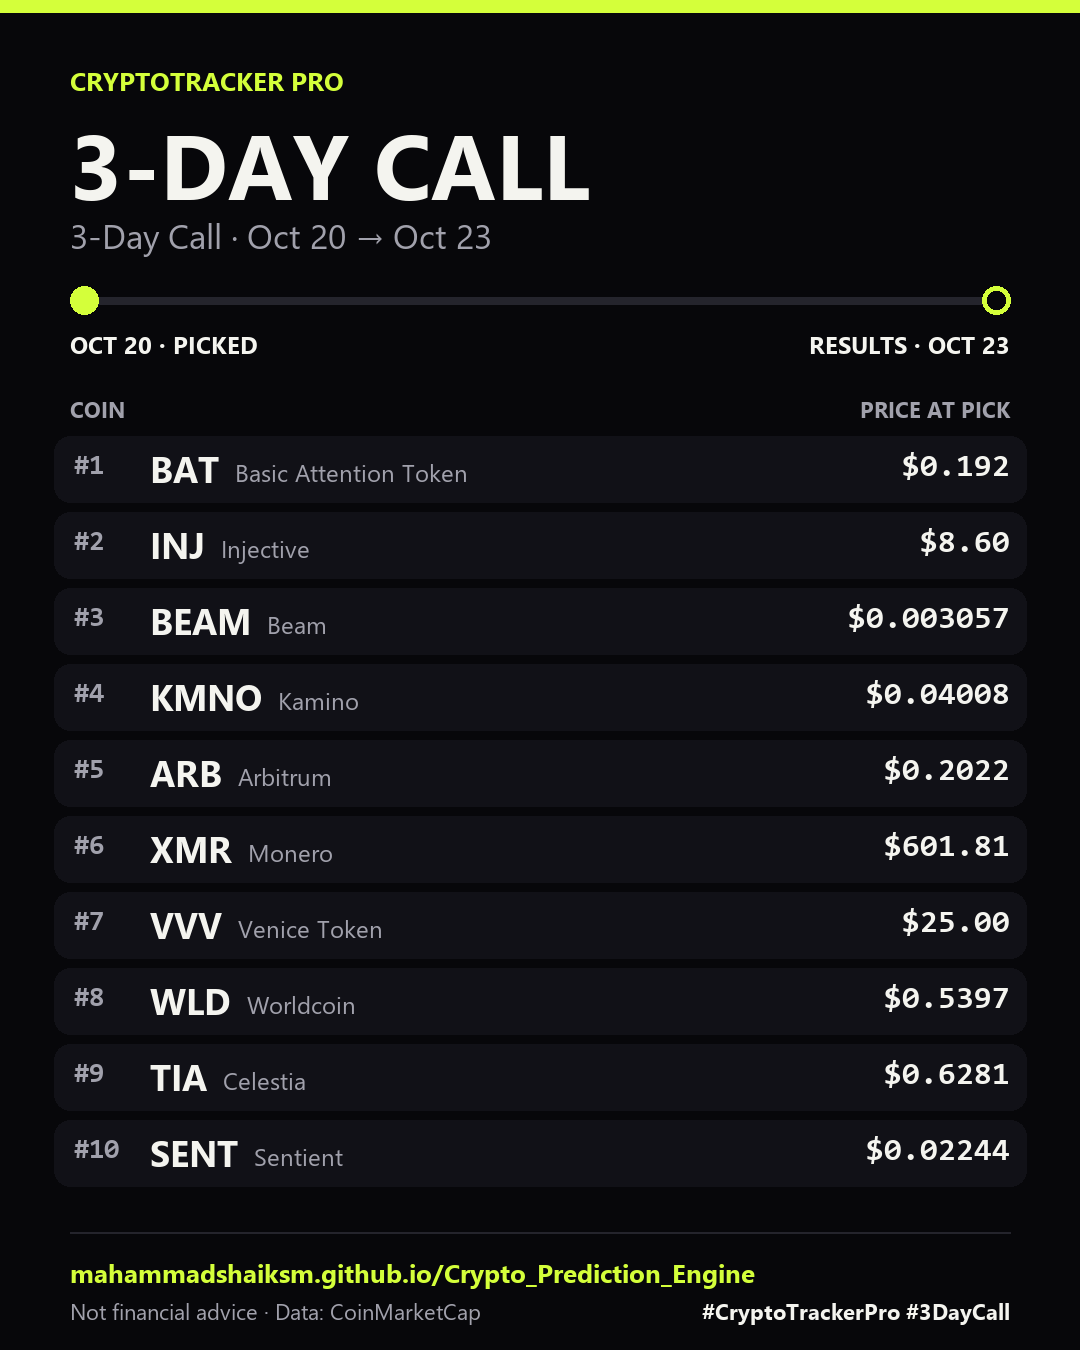
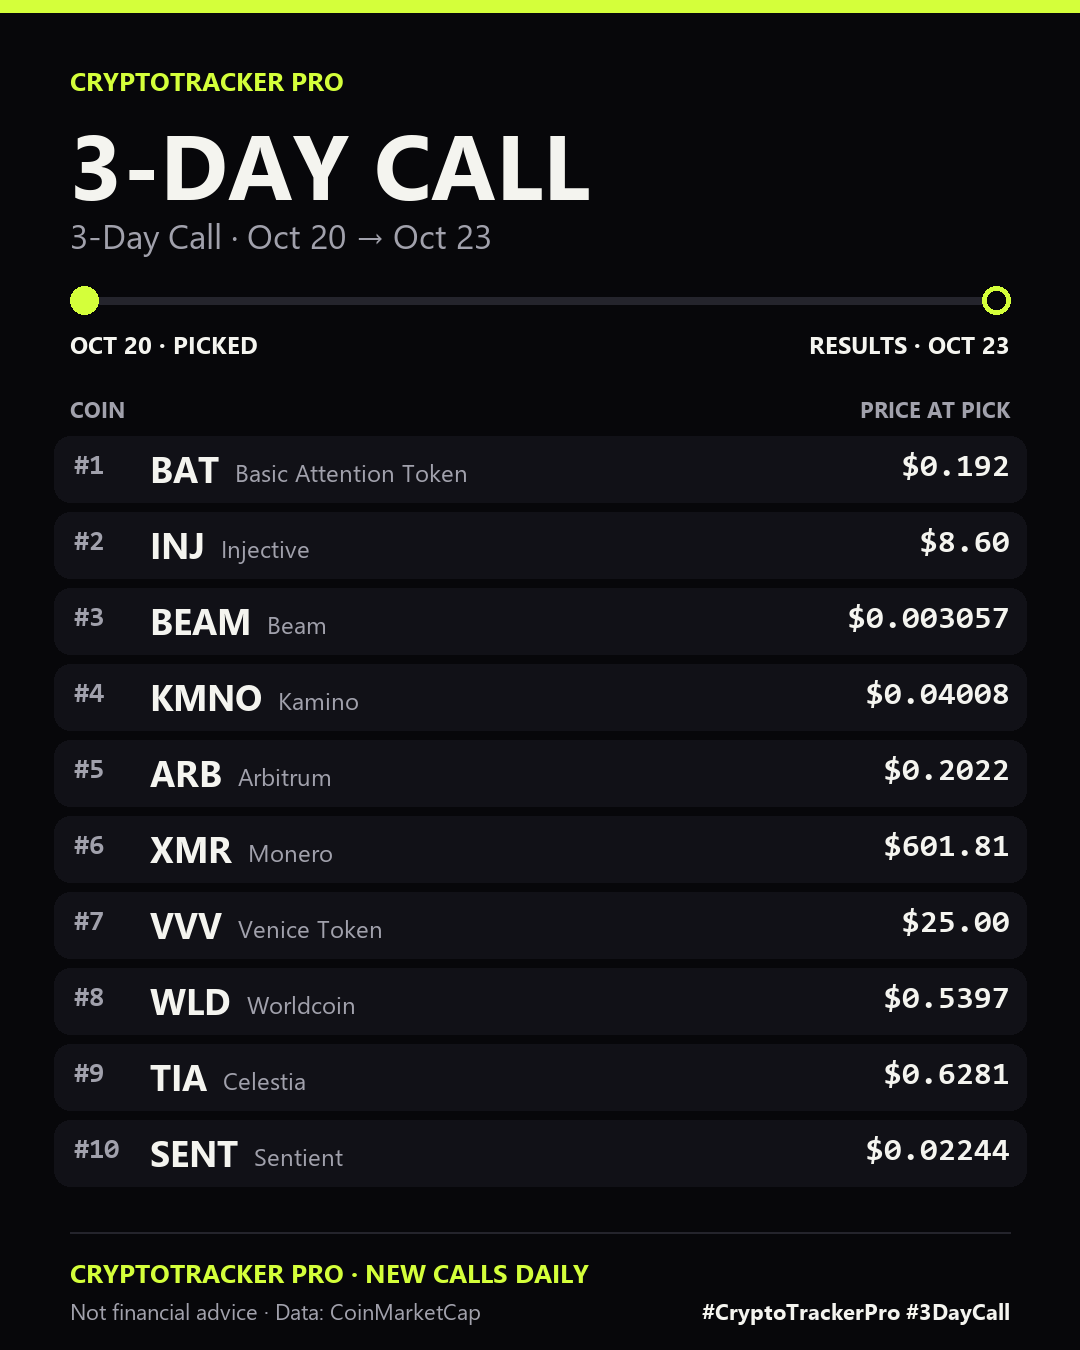
Remove GitHub links from posts, profile text and site footer
Post captions, share images, PROFILE.txt and PINNED.txt carry no link
unless the PUBLIC_SITE_URL repository variable is set (for a future
custom domain). The homepage 'Built by' credit is plain text.

Changed region(s): [[0.0611, 0.9333, 0.7028, 0.9644]]

diff --git a/index.html b/index.html
@@ -258,7 +258,7 @@
   <div class="wrap">
     <div class="who">
       <b>CryptoTracker Pro</b>
-      <span>Built by <a href="https://mahammadshaiksm.github.io/MahammadShaikWebsite/">Shaik Mahammad</a></span>
+      <span>Built by Shaik Mahammad</span>
       <span>Crypto data from <a href="https://coinmarketcap.com/" target="_blank" rel="noopener">CoinMarketCap</a></span>
       <span>© <span id="yr">2026</span></span>
     </div>

diff --git a/site/build_posts.py b/site/build_posts.py
@@ -10,14 +10,19 @@ Writes
 
 Post kits older than 14 days are removed. Runs in the daily GitHub Action after the trackers.
 """
-import json, re, shutil
+import json, os, re, shutil
 from datetime import date, datetime, timedelta
 from pathlib import Path
 from PIL import Image, ImageDraw, ImageFont
 
 ROOT = Path(__file__).resolve().parent.parent
-SITE = "https://mahammadshaiksm.github.io/Crypto_Prediction_Engine/"
-SHORT = "mahammadshaiksm.github.io/Crypto_Prediction_Engine"
+# Public website address for posts. Empty = posts carry no link at all.
+# Set the repository variable PUBLIC_SITE_URL (Settings > Secrets and variables > Actions > Variables)
+# once you have your own domain; nothing else needs to change.
+SITE = os.environ.get("PUBLIC_SITE_URL", "").strip()
+if SITE and not SITE.endswith("/"):
+    SITE += "/"
+SHORT = SITE.replace("https://", "").replace("http://", "").rstrip("/")
 KEEP_DAYS, CALL_DAYS = 14, 40
 TAG = {7: "#7DayCall", 3: "#3DayCall"}
 
@@ -30,13 +35,13 @@ Each call shows the start and end date. On the end date we post the results, goo
 • Every call is graded in public: wins and misses
 • Every call and its result stays public
 
-Track everything at {SITE}
+{f"Track everything at {SITE}" if SITE else "Follow for a new call every day and every result."}
 #CryptoTrackerPro #3DayCall #7DayCall
 Not financial advice. Crypto is volatile and you can lose money."""
 
 
-PROFILE = f"""Daily crypto calls: 10 coins for 3 days + 10 for 7 days. Every call graded in public, wins and misses. NFA.
-{SITE}"""
+PROFILE = ("Daily crypto calls: 10 coins for 3 days + 10 for 7 days. Every call graded in public, wins and misses. NFA."
+           + (f"\n{SITE}" if SITE else ""))
 
 
 # ---------- formatting ----------
@@ -181,7 +186,7 @@ def card(call, mode, today):
     # footer
     fy = H - 118
     g.line([X, fy, W - X, fy], fill=LINE, width=2)
-    g.text((X, fy + 22), SHORT, font=font("bold", 26), fill=LIME)
+    g.text((X, fy + 22), SHORT or "CRYPTOTRACKER PRO · NEW CALLS DAILY", font=font("bold", 26), fill=LIME)
     note = "Not financial advice · Data: CoinMarketCap"
     g.text((X, fy + 64), note, font=font("reg", 22), fill=FG2)
     tag = f"#CryptoTrackerPro {TAG[h]}"
@@ -191,7 +196,12 @@ def card(call, mode, today):
 
 # ---------- captions ----------
 def link(call):
-    return f"{SITE}call.html?d={call['date']}&h={call['horizon']}"
+    return f"{SITE}call.html?d={call['date']}&h={call['horizon']}" if SITE else ""
+
+
+def arrow(call):
+    """' 👉 <link>' when a public site URL is configured, else nothing."""
+    return f" 👉 {link(call)}" if SITE else ""
 
 
 def coin_tag(name):
@@ -208,16 +218,16 @@ def caption(call, mode):
     cash = " ".join(f"${p['symbol']}" for p in call["picks"])
     rng = f"{md(call['date'])} → {md(call['end'])}"
     if mode == "call":
-        head, body = f"🎯 {h}-Day Call · {rng}", f"{cash}\nResults {md(call['end'])} 👉 {link(call)}"
+        head, body = f"🎯 {h}-Day Call · {rng}", f"{cash}\nResults {md(call['end'])}{arrow(call)}"
     else:
         ranked = sorted([p for p in call["picks"] if p["change"] is not None], key=lambda p: -p["change"])
         if mode == "update":
             lead = ", ".join(f"${p['symbol']} {pct(p['change'])}" for p in ranked[:3])
-            head, body = f"⏳ Results tomorrow · {h}-Day Call {rng}", f"Leading: {lead}\n👉 {link(call)}"
+            head, body = f"⏳ Results tomorrow · {h}-Day Call {rng}", f"Leading: {lead}{arrow(call)}"
         else:
             hits = ", ".join(f"${p['symbol']} {pct(p['change'])}" for p in ranked if p["hit"]) or "none"
             head = f"✅ {h}-Day results · {rng}"
-            body = f"{call['hits']}/10 hit the top 10: {hits} · {call['up']}/10 up\n👉 {link(call)}"
+            body = f"{call['hits']}/10 hit the top 10: {hits} · {call['up']}/10 up{arrow(call)}"
     return f"{head}\n{body}\n{tags}\nNFA"
 
 
